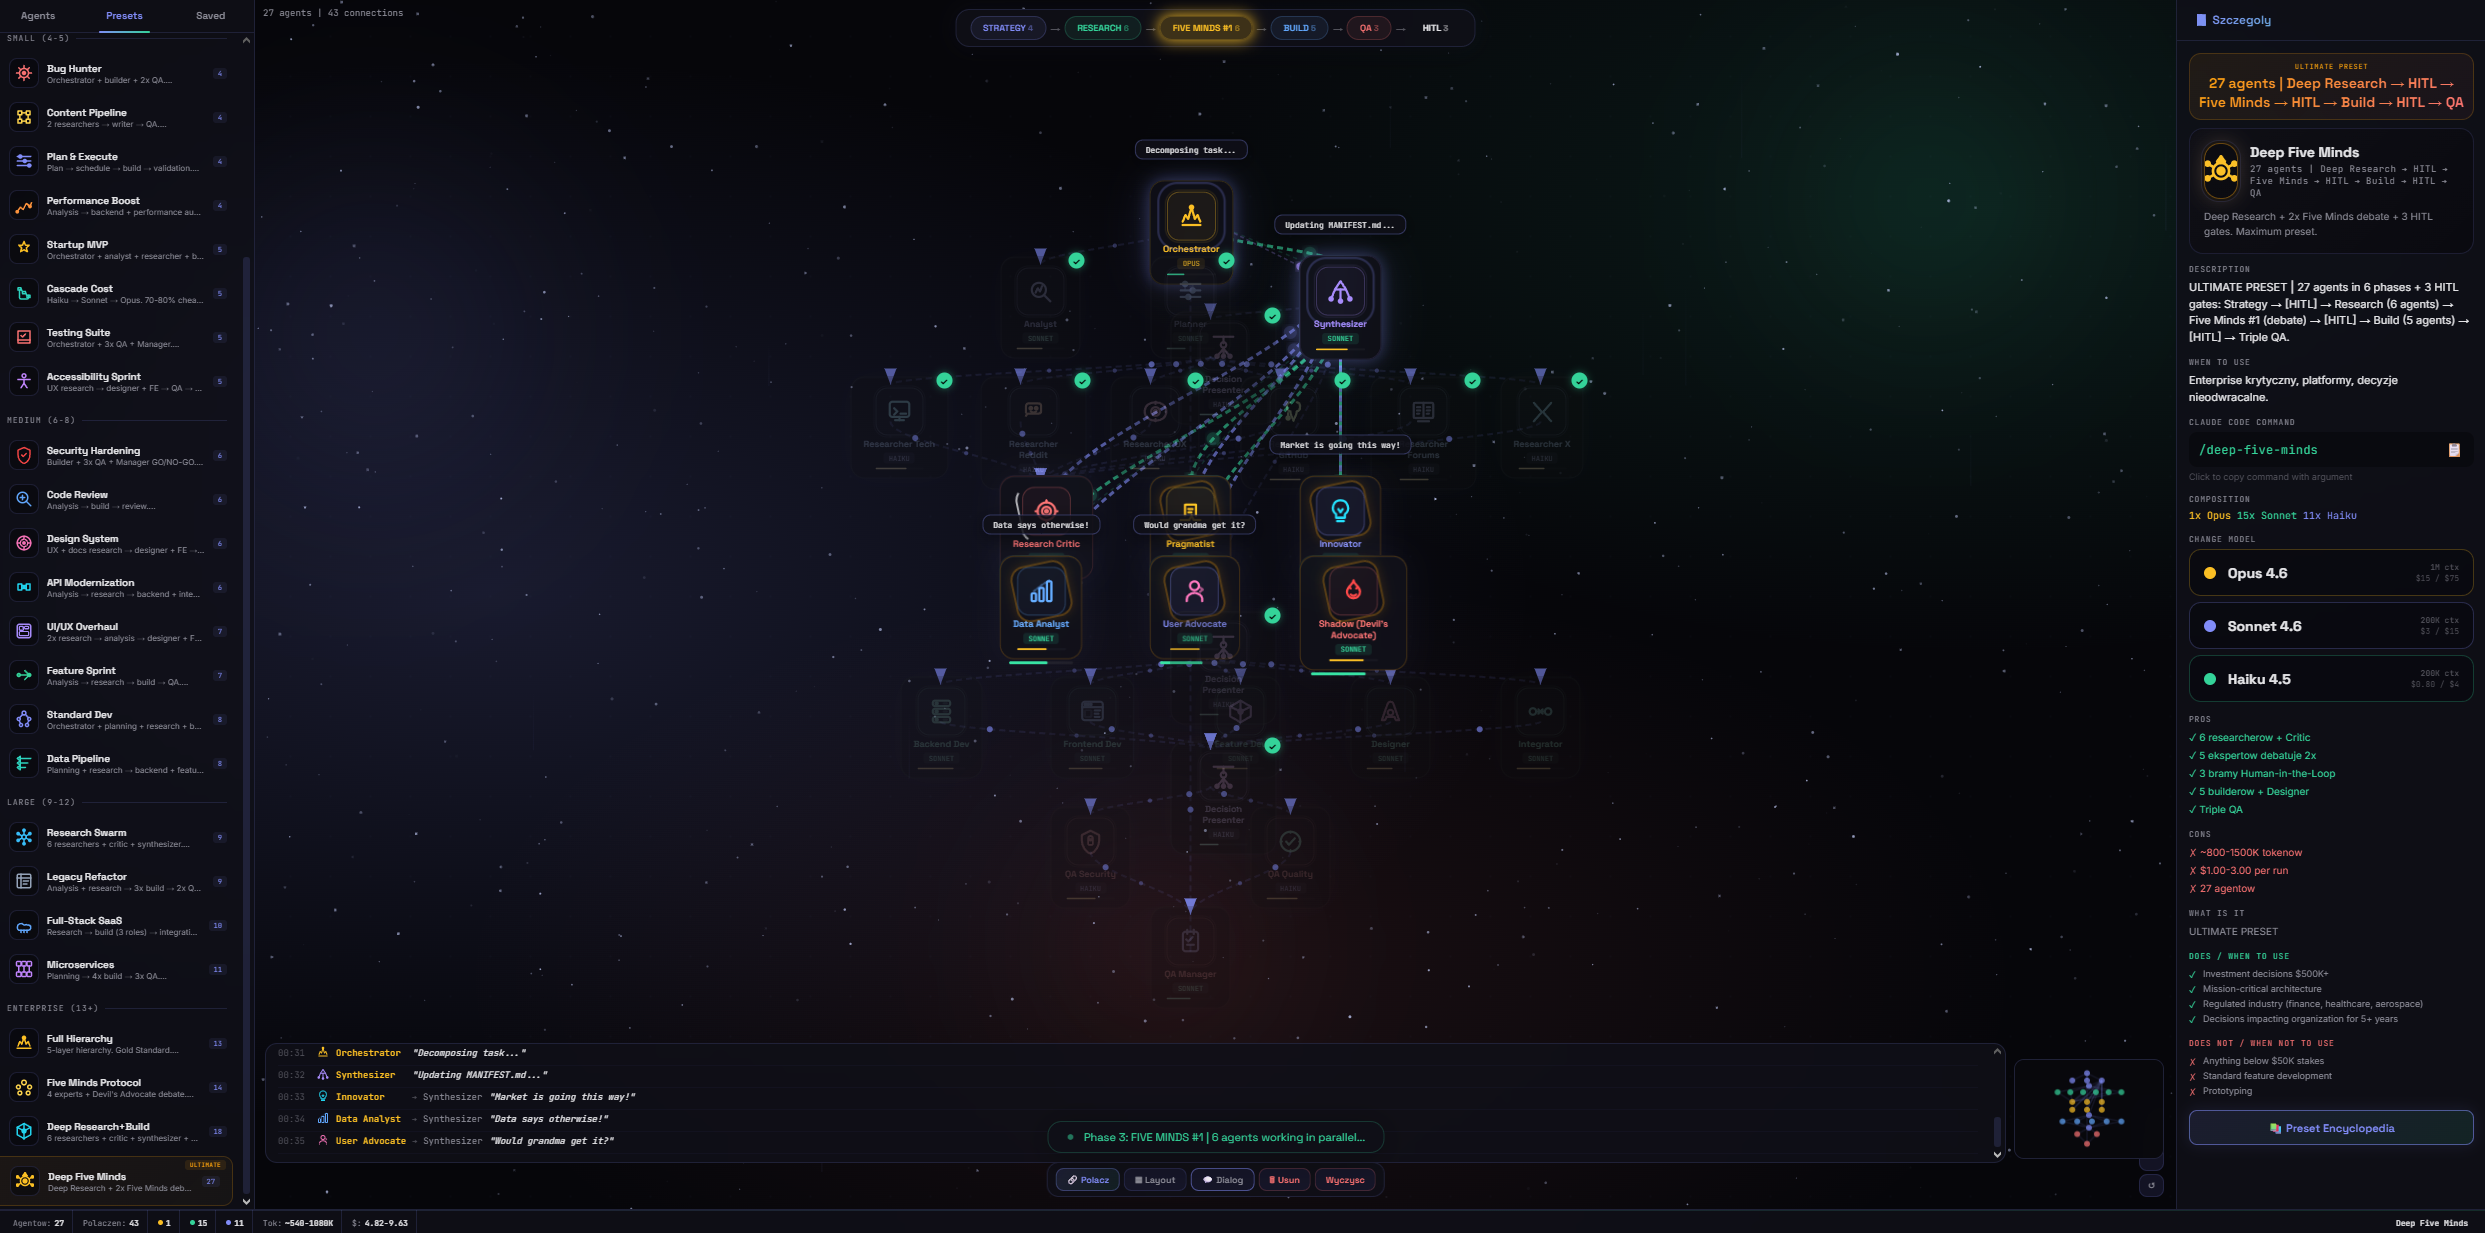
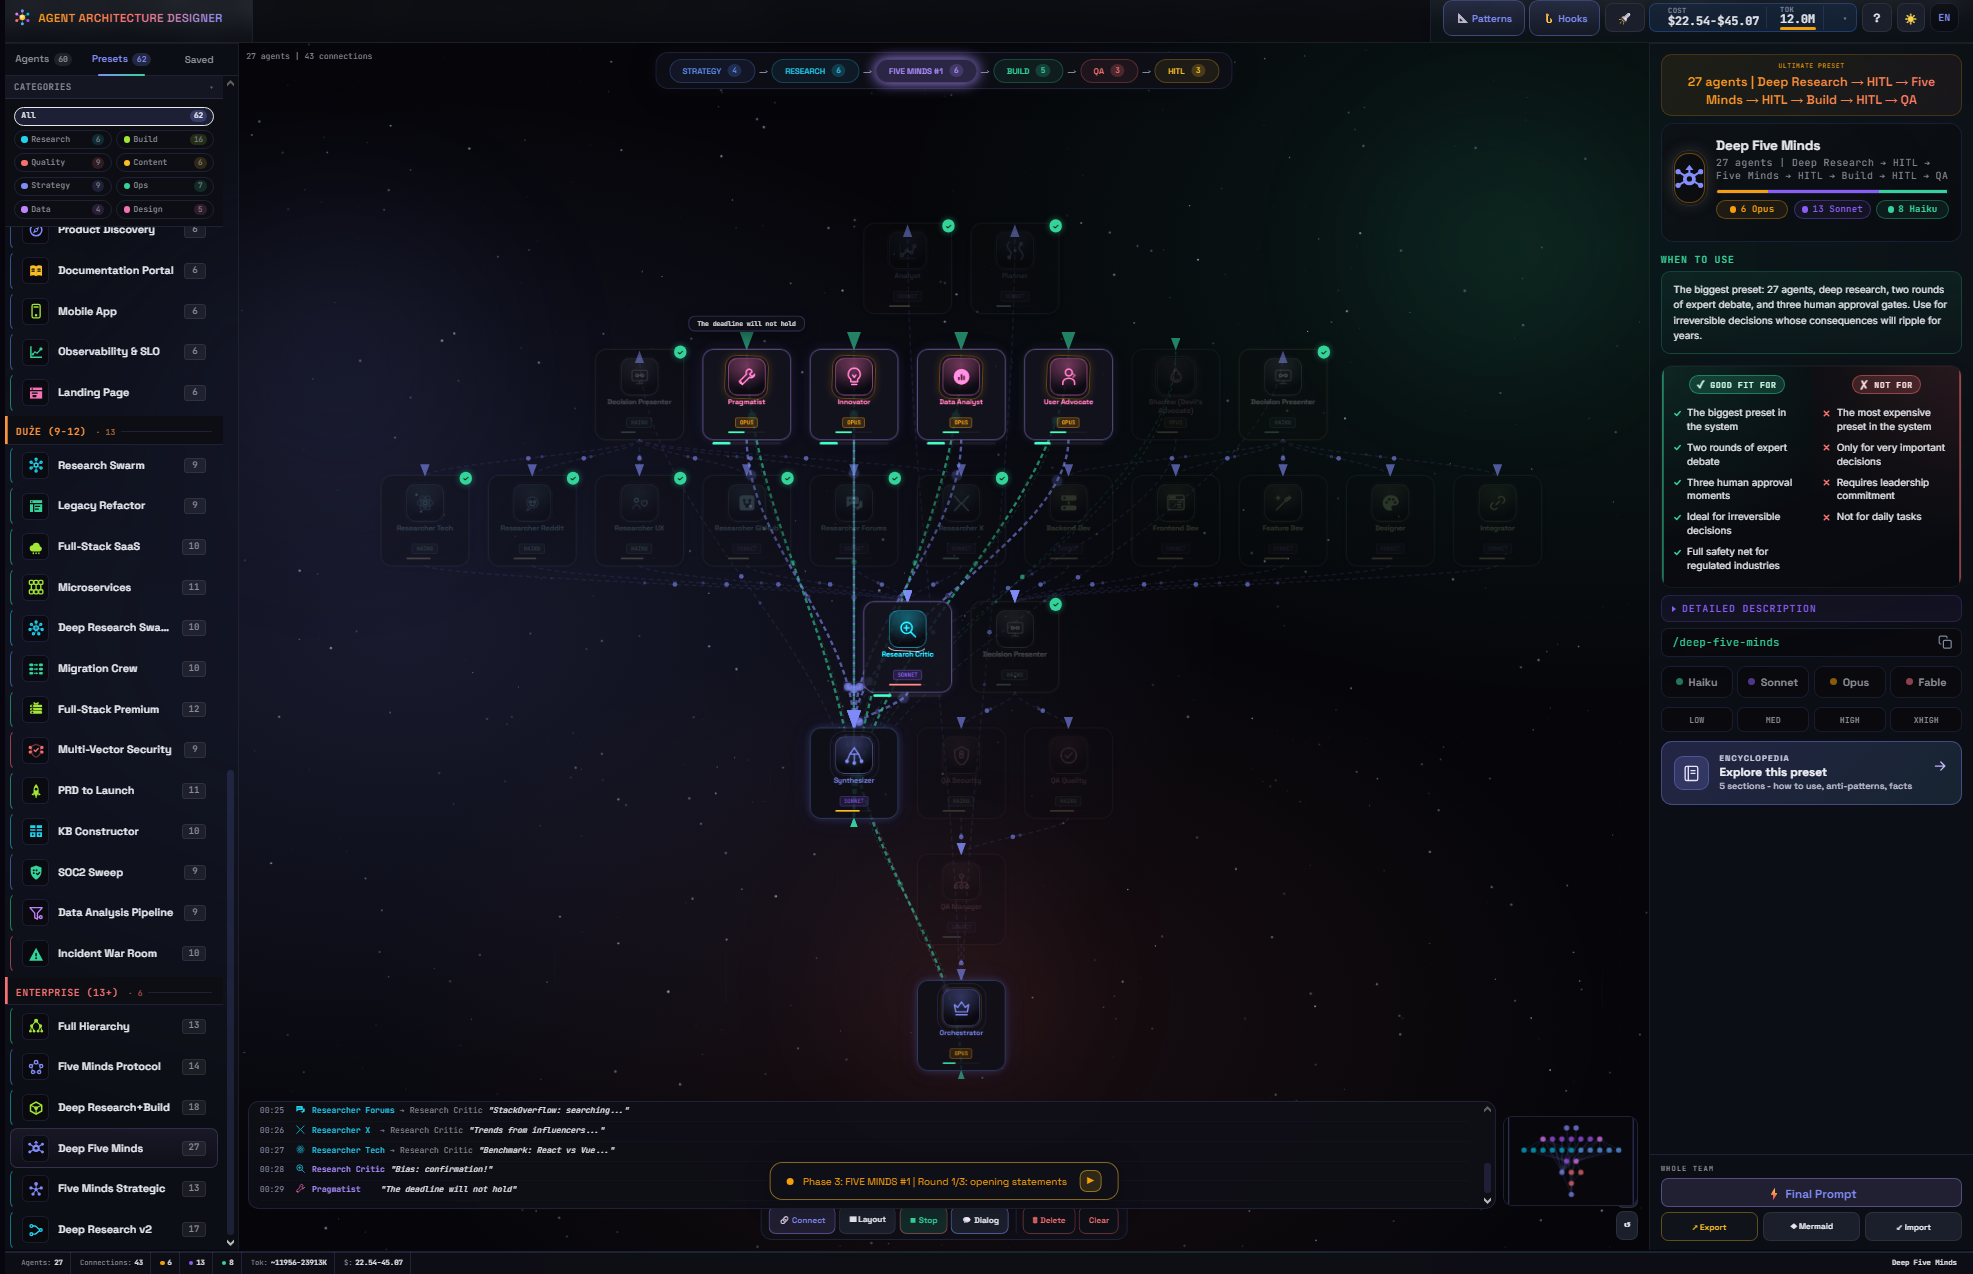
Refresh README screenshots to v41 and drop the infographics teaser
New screenshots for the encyclopedia, verdict panel, Cost Command
Center, Custom Agent Creator Pro (unchanged, kept), dark/light canvas,
and Live Simulation, plus two new ones for Hooks Playground and
Architecture Patterns - the v41 modules the old v32-era screenshots
never showed. New hero GIF. Removes the stale "screenshots are from
v32" note (no longer true) and every mention of inline infographics
(README bullet, screenshot slot, Technical details, Feedback question,
footer) since the feature only covers a handful of pilot agents and
isn't ready to be presented as a headline feature yet.

Claude-Session: https://claude.ai/code/session_01EYUbtoEGQc6DNeiakoAGff

diff --git a/README.md b/README.md
@@ -63,7 +63,6 @@ The interface is fully bilingual with a one-click language toggle. **Polish is m
 
 - All 60 agent + 62 preset encyclopedia entries exist in both languages
 - The Hooks and Patterns modules are fully bilingual, including every hook's cadence/trigger/matcher description
-- The Polish version ships with **inline infographics** for a handful of pilot agents, rendered directly in the encyclopedia bento - the English version does not have them yet
 - Polish is the default authoring language; English translations are technical/direct US English with no em/en-dashes
 
 If you are an English-speaking user and feel something is missing, please open an issue - we want to know which parts you would like to see expanded.
@@ -145,16 +144,17 @@ Each pattern entry explains the idea, when to reach for it, when NOT to, and whi
 
 ## Screenshots
 
-> **Note:** the screenshots below are from the v32 encyclopedia and cost center - they still represent the core UI accurately, but do not yet show the v41-only modules (Hooks Playground, Architecture Patterns, guided tutorial, phase-flow bar). A v41 screenshot refresh is planned.
-
 ### Agent encyclopedia (bento layout)
 <img src="docs/screenshots/encyclopedia-bento.png" alt="Agent Encyclopedia - bento layout with numbered kickers" width="100%">
 
-### Inline infographics (Polish encyclopedia)
-<img src="docs/screenshots/polish-infographic.png" alt="Polish encyclopedia with inline infographic" width="100%">
-
 ### Preset verdict panel (green / red)
 <img src="docs/screenshots/preset-verdict.png" alt="Preset sidebar dual-column verdict panel" width="100%">
+
+### Hooks Playground
+<img src="docs/screenshots/hooks-playground.png" alt="Hooks Playground - all 27 Claude Code lifecycle events across 4 lanes" width="100%">
+
+### Architecture Patterns
+<img src="docs/screenshots/architecture-patterns.png" alt="Architecture Patterns - 10 canonical multi-agent patterns tied to real agents and presets" width="100%">
 
 ### Cost Command Center
 <img src="docs/screenshots/cost-command-center.png" alt="Cost Command Center modal with donut, breakdown, what-if and export tabs" width="100%">
@@ -239,7 +239,7 @@ See [`docs/SKILLS_ARCHITECTURE.md`](docs/SKILLS_ARCHITECTURE.md) for the full sk
 
 ## Technical details
 
-- **Format** - single HTML file, ~7.1 MB (includes all encyclopedia content in PL + EN, inline SVG icons, inline infographics for pilot agents)
+- **Format** - single HTML file, ~7.1 MB (includes all encyclopedia content in PL + EN, inline SVG icons)
 - **Dependencies** - zero. No npm, no CDN, no build step
 - **Stack** - Vanilla JS (ES2022) + inline SVG + CSS transitions + Canvas 2D + container queries
 - **State** - localStorage persistence (canvas, theme, icon mode, language preference, custom agents), with a versioned migration chain
@@ -276,7 +276,6 @@ This project is still growing and **we actively want your feedback** - especiall
 
 - Did the encyclopedia help you understand a specific agent you were confused about? Which one?
 - Is there an agent role or pattern missing from the 60 / 62 catalog?
-- Do you want infographics in the English version too?
 - Did the Hooks Playground or Architecture Patterns module change how you think about your own Claude Code setup?
 
 Please open a [GitHub issue](https://github.com/TheJacksonCode/Agent-Architecture/issues) or start a [discussion](https://github.com/TheJacksonCode/Agent-Architecture/discussions). Short comments and screenshots are very welcome.
@@ -291,4 +290,4 @@ Built by **[TheJacksonCode](https://github.com/TheJacksonCode)**.
 
 ---
 
-<sub>Interface languages: Polish (more comprehensive, with pilot inline infographics) and English (full parity for the core encyclopedia, Hooks, and Patterns modules) | Documentation language: English | Primary purpose: education and development - understanding how multi-agent systems think</sub>
+<sub>Interface languages: Polish (more comprehensive) and English (full parity for the core encyclopedia, Hooks, and Patterns modules) | Documentation language: English | Primary purpose: education and development - understanding how multi-agent systems think</sub>
